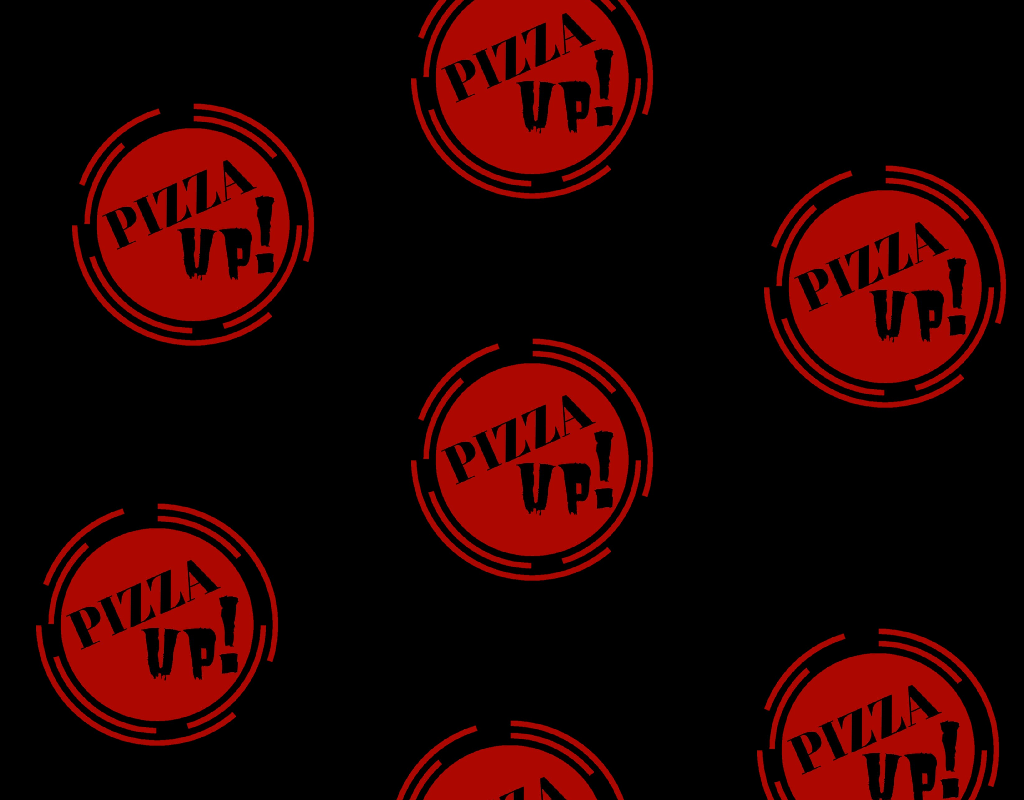
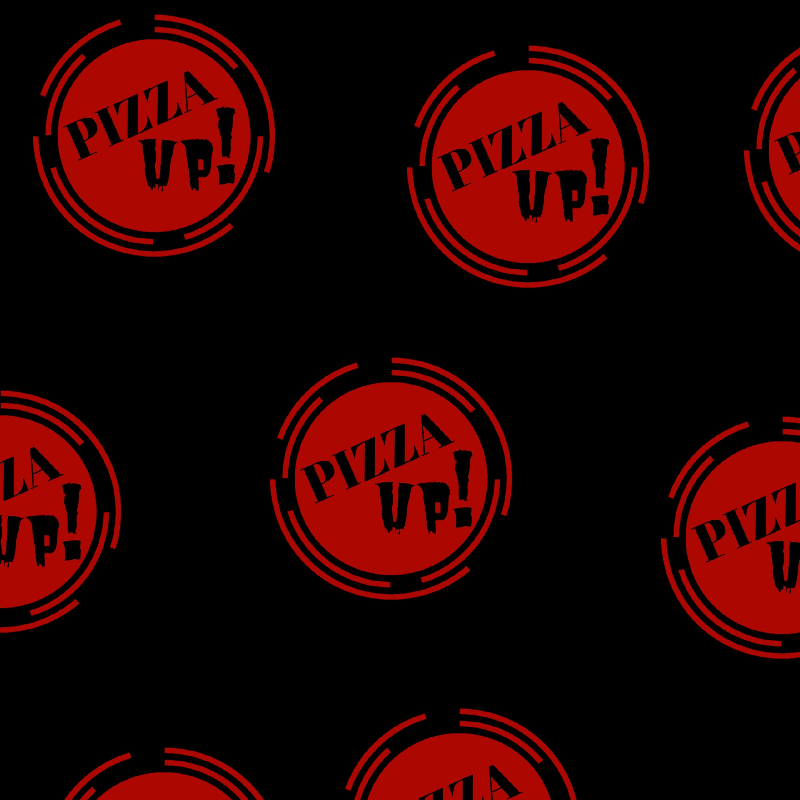
defined img backgorund-img

diff --git a/src/app/shared/order/order.component.html b/src/app/shared/order/order.component.html
@@ -1,59 +1,60 @@
-<div class="text-center pt-3">
-
+<div class="text-left pt-3">
+    
+    
     <form [formGroup]="orderForm" class="form pt-4">
-
+        
         <h6>Informações do Cliente</h6>
-
+        
         <div class="row">
             <div class=" camp p-1" >
                 <label for="name" class="camp__label">
                     <input formControlName="name" type="text" class="form-control form-control-sm" id="name"
-                        placeholder="Nome e sobrenome" [class.is-invalid]="exibeErro('nome')">
+                    placeholder="Nome e sobrenome" [class.is-invalid]="exibeErro('nome')">
                 </label>
             </div>
-
+            
             <div class="p-1">
                 <label for="phone">
                     <input formControlName="phone" type="tel" class="form-control form-control-sm " id="phone"
-                        placeholder="Telefone com DDD" [class.is-invalid]="exibeErro('nome')">
+                    placeholder="Telefone com DDD" [class.is-invalid]="exibeErro('nome')">
                 </label>
             </div>
         </div>
-
+        
         <h6>Informações da entrega</h6>
-
+        
         <div class="deliveryInformation row">
             <div class="p-1">
                 <label for="street" class="camp__label">
                     <input formControlName="street" type="text" class="form-control form-control-sm" id="street"
-                        placeholder="Rua"[class.is-invalid]="exibeErro('nome')">
+                    placeholder="Rua"[class.is-invalid]="exibeErro('nome')">
                 </label>
             </div>
-
+            
             <div class="p-1">
                 <label for="houseNumber">
                     <input formControlName="houseNumber" type="text" class="form-control form-control-sm"
-                        id="houseNumber" placeholder="Nº" style="max-width: 50px;" [class.is-invalid]="exibeErro('nome')">
+                    id="houseNumber" placeholder="Nº" style="max-width: 50px;" [class.is-invalid]="exibeErro('nome')">
                 </label>
             </div>
         </div>
-
+        
         <div class="row">
             <div class="p-1">
                 <label for="district" class="camp__label">
                     <input formControlName="district" type="text" class="form-control form-control-sm" id="district"
-                        placeholder="Bairro" [class.is-invalid]="exibeErro('nome')">
+                    placeholder="Bairro" [class.is-invalid]="exibeErro('nome')">
                 </label>
             </div>
-
+            
             <div class="p-1">
                 <label for="complement">
                     <input formControlName="complement" type="text" class="form-control form-control-sm" id="complement"
-                        placeholder="Complemento" [class.is-invalid]="exibeErro('nome')">
+                    placeholder="Complemento" [class.is-invalid]="exibeErro('nome')">
                 </label>
             </div>
         </div>
-
+        
         <div class="row">
             <div class="p-1">
                 <label for="referencePoint" class="camp__label">
@@ -61,22 +62,22 @@
                 </label>
             </div>
         </div>
-
+        
         <h6>Informações do pedido</h6>
-
+        
         <h6>Informações de pagamento</h6>
-
+        
         <div class="row">
             <div class="p-1">
                 <label for="payment" class="camp__label"></label>
                 <input type="radio" name="money" id="money"><strong>Dinheiro</strong>
                 <input type="radio" name="money" id="card"><strong>Cartão</strong>
-
+                
             </div>
-
+            
         </div>
-
-
+        
+        
         <button class="btn btn-dark btn-sm" (click)="onSubmit()">Concluir</button>
     </form>
 </div>

diff --git a/src/app/shared/order/order.component.scss b/src/app/shared/order/order.component.scss
@@ -5,6 +5,13 @@
     max-width: 370px;
     padding: 15px;
     margin: 0 auto;
+    background: #000000; /* fallback for old browsers */
+    background: -webkit-linear-gradient(to right, #e74c3c, #000000); /* Chrome 10-25, Safari 5.1-6 */
+    background: linear-gradient(
+        to right,
+        #e74c3c,
+        #000000
+    ); /* W3C, IE 10+/ Edge, Firefox 16+, Chrome 26+, Opera 12+, Safari 7+ */
 }
 
 .camp__label {

diff --git a/src/app/app.component.html b/src/app/app.component.html
@@ -1,4 +1,3 @@
 <app-header></app-header>
-<img  class="background-img" src="./assets/img-body.png" alt="Fundo da página">
 <router-outlet></router-outlet>
 <app-footer></app-footer>

diff --git a/src/styles.scss b/src/styles.scss
@@ -1,3 +1,6 @@
 @import 'bootstrap';
 
+body {
+    background-image: url("./assets/img-body.png");
+}
 
